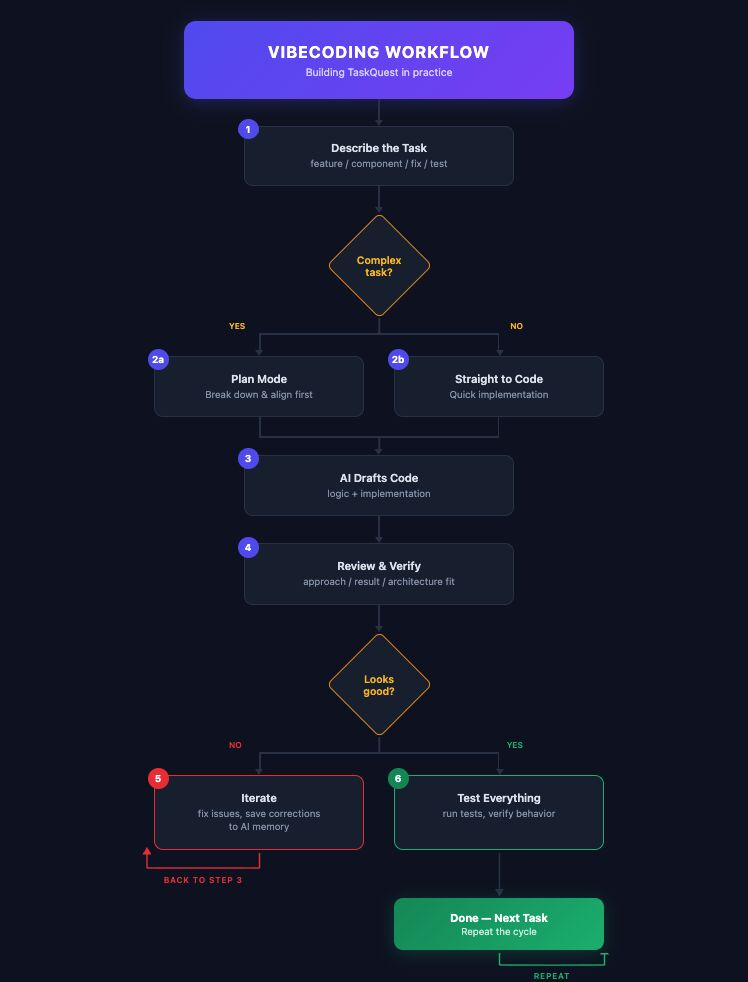
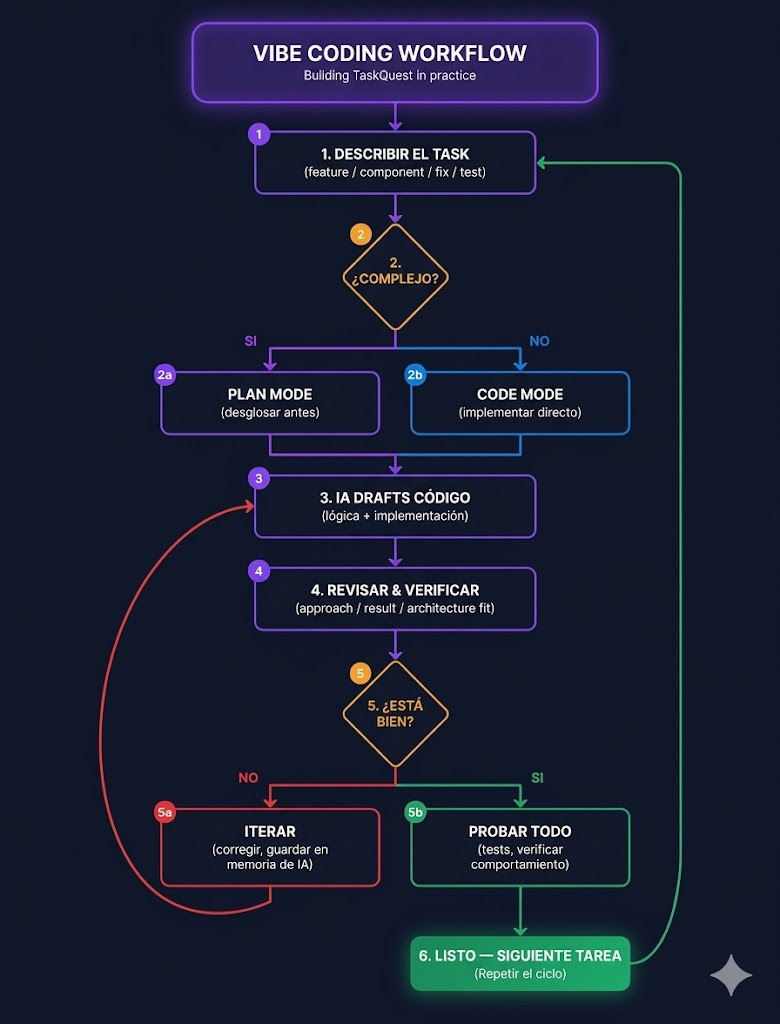
Clase 02 Simple Idea & Research to Prompt

diff --git a/02_clase/README.md b/02_clase/README.md
@@ -1,0 +1,129 @@
+# De la Idea al MVP con IA
+
+_Resumen del material on demand (contenido de la plataforma)_
+
+## **Idea Central**
+No empieces con la solución, empieza con el problema. La meta no es "tener un SaaS", sino validar que estás resolviendo un **dolor real** para **personas reales**. La IA puede acelerar todo este proceso, pero nunca reemplazar la validación con usuarios.
+
+---
+
+### 1. **Descubre el Problema Real** (No tu idea)
+
+Olvídate de las pantallas por un momento. Pregúntate:
+
+- **¿Qué problema resuelvo?** No "un SaaS de reservas", sino "administradores de coworking que pierden ingresos porque gestionan reservas con Excel y WhatsApp, generando dobles reservas y facturación caótica".
+
+- **¿Para quién?** No "los coworkings", sino "Laura, la administradora de un espacio con 35 miembros, que cada fin de semana cruza mensajes de WhatsApp para saber quién pagó su membresía y quién no".
+
+- **¿Cómo lo resuelven hoy?** Usualmente con Excel para membresías, WhatsApp para reservas, Google Calendar para salas, y hojas de cálculo para facturación (esto genera errores, conflictos y horas no facturables).
+
+**Herramienta IA útil:**
+> *Prompt:* "Genera una lista de dolores (operativos, financieros y emocionales) que enfrentan los administradores de espacios de coworking al gestionar reservas, membresías y facturación con herramientas manuales."
+
+---
+
+### 2. **Organiza la Información y Genera Ideas Claras**
+
+No es "hacer un calendario". Es definir oportunidades concretas basadas en lo que descubriste.
+
+1. **Extrae patrones:** ¿Qué se repite en las entrevistas?
+   - "Cada fin de mes pierdo 2 días enteros facturando"
+   - "Los miembros se quejan porque no saben si la sala está libre"
+   - "A veces dos personas reservan el mismo espacio y tengo que mediar"
+
+2. **Dibuja el camino del usuario (User Journey):** Sigue los pasos de "Laura" para gestionar una reserva hoy. Identifica en qué paso sufre más.
+   - Miembro envía WhatsApp → Laura revisa Excel → Laura confirma disponibilidad → Laura anota en hoja → Laura cobra manualmente → ERROR: doble reserva
+
+3. **Formula oportunidades:** En formato "¿Cómo podríamos...?"
+   - ¿Cómo podríamos centralizar la disponibilidad de todos los espacios en un solo lugar visible para todos?
+   - ¿Cómo podríamos automatizar la facturación recurrente para que Laura no pierda 2 días al mes?
+   - ¿Cómo podríamos dar autonomía al miembro para que reserve sin depender de Laura?
+
+**Herramienta IA útil:**
+> *Prompt:* "Dado el siguiente patrón '[Los administradores de coworking pierden 10-15 horas semanales gestionando reservas y facturación manualmente, generando dobles reservas y retrasos en cobros]', genera 3 oportunidades de solución en formato '¿Cómo podríamos...?' para un SaaS multitenant."
+
+---
+
+### 3. **Define tu MVP: El Mínimo para Aprender**
+
+El MVP no es la versión más barata de tu producto soñado. Es el **experimento más pequeño** para probar tu hipótesis principal.
+
+**Hipótesis:**
+> "Si los miembros de un coworking pueden ver la disponibilidad en tiempo real y reservar espacios por sí mismos a través de un portal web, y el sistema genera automáticamente las facturas de membresías, los administradores reducirán su carga administrativa en un 70% y eliminarán las dobles reservas."
+
+**MVP (Mínimo):** Un portal web con dos vistas:
+
+| Vista | Funcionalidades mínimas |
+|-------|------------------------|
+| **Vista Miembro** | Ver calendario con espacios disponibles, reservar un espacio en 2 clics, ver mis reservas activas |
+| **Vista Admin** | Ver todas las reservas del día, gestionar espacios (agregar/editar), ver quién debe pagar |
+
+**NO necesita en MVP:**
+- App móvil nativa (funciona con web responsive)
+- Integración con cerraduras inteligentes
+- Múltiples sedes para un mismo coworking
+- Reportes avanzados y analytics complejos
+- Marketplace de eventos o servicios extra
+- Chat interno entre miembros
+
+**Herramienta IA útil:**
+> *Prompt:* "Prioriza estas funcionalidades para un MVP de SaaS de administración de coworking, usando el método MoSCoW (Must, Should, Could, Won't): Gestión de espacios, Calendario de reservas, Portal de miembros, Facturación automática, Login de admin, Reportes básicos, Pasarela de pagos, App móvil, Múltiples sedes."
+
+---
+
+### 4. **Construye en Etapas (con Vibe Coding)**
+
+No intentes hacer todo al mismo tiempo. Avanza por capas, validando en cada una antes de continuar:
+
+| Etapa | Objetivo | Qué construyes | Cómo validas |
+|-------|----------|----------------|--------------|
+| **Etapa 1 - Esqueleto** | Validar que el flujo se entiende | Pantallas con datos falsos (mock). Admin ve calendario, miembro puede hacer clic en "reservar". | Mostrar a 3 administradores. ¿Entienden cómo se usa? ¿El flujo tiene sentido? |
+| **Etapa 2 - Datos Reales** | Validar que el producto funciona | Conectar a base de datos (Supabase). Las reservas persisten. Los espacios se guardan. | Probar con 1 coworking real. Que suban sus espacios y hagan 5 reservas de prueba. |
+| **Etapa 3 - Usuarios Reales** | Validar que el producto es usado | Agregar autenticación (login). Cada coworking tiene su URL única (multitenant). | Que 5 miembros del coworking reserven sin ayuda del admin. Medir % de reservas exitosas. |
+| **Etapa 4 - Facturación** | Validar el modelo de negocio | Integrar pasarela de pagos (Stripe/MercadoPago). Facturación automática de membresías. | Que el primer ciclo de cobros se complete. Medir % de pagos automatizados. |
+
+**Herramienta IA útil:**
+> *Prompt:* "Soy un creador construyendo un SaaS de coworking. Dame un plan paso a paso para implementar autenticación multitenant con Supabase, donde cada coworking tenga su propia URL y sus usuarios no puedan ver datos de otros coworkings."
+
+---
+
+## **Conclusión: Puntos Clave para el Creador**
+
+1. **Ámate del problema, no de tu idea.** Tu primera idea probablemente esté equivocada. La investigación te acerca a la versión correcta. En este caso, el problema no es "falta de app", es "Laura pierde 2 días facturando".
+
+2. **La IA es tu asistente de investigación e ideación,** no tu fuente de verdad. Úsala para ampliar perspectivas, generar preguntas y organizar información. La validación final es con personas reales: administradores y miembros de coworkings.
+
+3. **Un MVP es un experimento, no un producto completo.** Su éxito se mide por el **aprendizaje validado**, no por la cantidad de features. Define 1 o 2 hipótesis clave y construye sólo lo necesario para probarlas.
+   - Hipótesis 1: ¿Los miembros reservan sin ayuda si tienen visibilidad?
+   - Hipótesis 2: ¿Los administradores pagan por automatizar facturación?
+
+4. **Construye en capas.** 
+   - Capa 1: Haz que *se vea* y *se entienda* (flujo con datos mock)
+   - Capa 2: Haz que *funcione de verdad* (datos persistentes)
+   - Capa 3: Hazlo *personal y escalable* (login + multitenant)
+   - Capa 4: Hazlo *rentable* (facturación automática)
+
+5. **El momento de la verdad es la URL pública.** Cuando tu MVP esté en línea y un coworking real (aunque sea uno solo) lo use para gestionar sus reservas diarias, habrás pasado de la teoría a la creación de un producto real. Allí comienza el aprendizaje verdadero.
+
+---
+
+## *Challenge recomendado*
+
+**Tu meta al final de esta unidad:**
+
+Poder mostrar un link (URL pública) donde:
+- Un administrador de coworking pueda entrar, ver un calendario y gestionar sus espacios
+- Un miembro pueda reservar un espacio sin ayuda
+- Los datos persistan (si reservas hoy, mañana sigue ahí)
+
+Ese es el primer y más importante paso en el camino de cualquier producto digital. No necesitas facturación automática en la primera entrega. Necesitas **un fragmento verificable del problema resuelto**.
+
+---
+
+## *Bonus: Preguntas para Reflexionar con los Alumnos*
+
+| Pregunta | Propósito |
+|----------|-----------|
+| ¿Qué pasaría si en lugar de construir un SaaS, primero ayudas a Laura a facturar en 1 hora con una planilla mejorada? | Cuestionar si el producto es la solución o hay un camino más simple |
+| ¿Cuál es la hipótesis más riesgosa de tu proyecto? ¿La técnica o la de adopción? | Identificar qué validar primero |
+| Si solo pudieras mostrar UNA pantalla funcional en tu MVP, ¿cuál sería y por qué? | Forzar priorización extrema |

diff --git a/02_clase/.prompts/vibe.prompt.md b/02_clase/.prompts/vibe.prompt.md
@@ -1,0 +1,71 @@
+### CONTEXTO
+
+- **CONTEXTO DEL PROYECTO: SaaS COWORKING MULTITENANT**
+- **Objetivo:** Aplicación profesional de gestión de coworking.
+- **Arquitectura:** Multitenant real (aislamiento por `tenant_id` y - subdominios dinámicos).
+- **Tech Stack:** Vue.js, Supabase (con RLS), PWA, Tailwind CSS, Framer Motion.
+- **Vibe:** Minimalismo de Squarespace + Eficiencia técnica de [Linear.app.](https://linear.app/) & [ICOMAT](https://www.icomat.co.uk/)
+- **Reglas Críticas:** 1. Imports relativos (`../`). 2. Datos en `mockData.ts`. 3. PWA instalable. 4. Toasts para feedback.
+- **Entidades:** Tenants, Profiles, Spaces, Reservations, Memberships, Payments, Announcements.
+
+---
+
+### PASO 1: Diseño UI/UX (Para STITCH)
+*Este prompt se enfoca en la "piel" y la experiencia, asegurando que el diseño contemple la lógica multitenant.*
+
+> **PROMPT 1: DESIGN SYSTEM & LAYOUTS**
+> [PEGAR BLOQUE DE CONTEXTO AQUÍ]
+>
+> Actúa como Product Designer Senior. Basado en el contexto anterior, diseña la interfaz completa en Stitch:
+> 1. **Branding Dinámico:** Diseña cómo el logo y colores cambian según el `tenant_id` en el dashboard.
+> 2. **Admin Dashboard:** Layout de gestión de espacios (grid), calendario global de reservas y sección de facturación.
+> 3. **Member Dashboard (Mobile First):** Interfaz enfocada en la reserva rápida mediante slots de tiempo y visualización de membresía activa.
+> 4. **Componentes:** Diseña los Toasts de feedback, Skeletons de carga y el Toggle de Dark/Light mode (Slate-900 / Slate-50).
+> **Entregable:** Prototipo visual de alta fidelidad que refleje la estética Linear/Icomat.
+
+---
+
+### PASO 2: Desarrollo Frontend & Estructura (Para ANTIGRAVITY)
+*Este prompt toma el diseño y crea el cascarón funcional siguiendo las reglas técnicas.*
+
+> **PROMPT 2: FRONTEND ARCHITECTURE & PWA**
+> [PEGAR BLOQUE DE CONTEXTO AQUÍ]
+>
+> Actúa como Desarrollador Frontend Senior. Implementa la estructura del proyecto basada en el diseño de la etapa anterior:
+> 1. **Estructura de Carpetas:** Crea `/admin` y `/member` con navegación independiente (Sidebar vs Bottom Tab Bar).
+> 2. **Reglas Técnicas:** Configura el sistema de imports relativos y crea `src/data/mockData.ts` con los datos de los 2 tenants demo (Espacio Centro y WorkHub Norte).
+> 3. **PWA:** Genera el `manifest.json` y el Service Worker básico para que la app sea instalable.
+> 4. **UI:** Implementa los componentes de calendario, formularios de CRUD y el sistema de Toasts reactivos con Framer Motion.
+> **Entregable:** Repositorio base con layouts funcionales y navegación lista.
+
+---
+
+### PASO 3: Base de Datos y Seguridad (Para SUPABASE)
+*Aquí es donde creamos el motor y los muros de seguridad de los datos.*
+
+> **PROMPT 3: BACKEND, RLS & DATA MODEL**
+> [PEGAR BLOQUE DE CONTEXTO AQUÍ]
+>
+> Actúa como Arquitecto de Datos. Configura el backend en Supabase mediante MCP:
+> 1. **Esquema SQL:** Crea las 8 tablas definidas en el contexto, asegurando relaciones correctas (Foreign Keys).
+> 2. **Multi-tenancy RLS:** Redacta las políticas de Row Level Security para que TODO filtro dependa del `auth.jwt() -> 'tenant_id'`. Un usuario de un coworking jamás debe ver datos de otro.
+> 3. **Auth Hooks:** Crea un trigger para que, al registrar un usuario, se cree automáticamente su entrada en `profiles`.
+> 4. **Seed Data:** Inserta los datos de prueba para los 2 tenants demo (Admin + 2 Miembros cada uno) para testing inmediato.
+> **Entregable:** Script SQL completo y configuración de tablas en Supabase.
+
+---
+
+### PASO 4: Lógica de Negocio e Integración (Para FINAL DEVS)
+*El paso final para que la app "piense" y se conecte a los subdominios.*
+
+> **PROMPT 4: BUSINESS LOGIC & TENANT ROUTING**
+> [PEGAR BLOQUE DE CONTEXTO AQUÍ]
+>
+> Actúa como Lead Fullstack. Finaliza la integración del sistema:
+> 1. **Detección de Subdominio:** Implementa la lógica para que `tenant-slug.tucowork.com` cargue la configuración de branding de ese tenant desde la tabla `tenants`.
+> 2. **Lógica de Reservas:** Programa las validaciones: 
+>    - Impedir reservas que no respeten la anticipación mínima (ej: 24h).
+>    - Evitar solapamientos de horario en el mismo `space_id`.
+> 3. **Dashboard de Miembro:** Conecta la vista de "Mi Membresía" y el historial de pagos con los datos reales de Supabase.
+> 4. **Funciones Extra:** Implementa la exportación a CSV para el admin y la generación dinámica de códigos QR para check-in.
+> **Entregable:** Aplicación SaaS 100% funcional y conectada.

diff --git a/02_clase/vibe_coding_aplicado.md b/02_clase/vibe_coding_aplicado.md
@@ -1,0 +1,112 @@
+# Vibe Coding Workflow: Construyendo tu SaaS de Coworking
+
+## El Ciclo Visual
+![Vibe Coding Looper](../.img/vibe-coding-loop.png)
+---
+
+## Explicación Simple Paso a Paso
+
+### 1. Describir la Tarea
+**Qué haces:** Le decís a la IA qué querés construir.
+
+**Ejemplo para tu proyecto:**
+> "Necesito que los miembros de un coworking puedan ver un calendario con los espacios disponibles y reservar uno en 2 clics. Los datos deben persistir en una base de datos."
+
+**Consejo:** Sé específico. Mencioná qué pantalla, qué usuario, qué resultado esperás.
+
+---
+
+### 2. ¿Es Complejo?
+**Qué haces:** Decidís si la tarea necesita planificación o podés ir directo al código.
+
+| Si es COMPLEJO | Si es SIMPLE |
+|----------------|--------------|
+| - Autenticación multitenant | - Agregar un campo al formulario |
+| - Integración con pasarela de pagos | - Cambiar color de un botón |
+| - Migración de base de datos | - Mostrar texto dinámico |
+| - Flujo con múltiples roles (admin/miembro) | - Arreglar un error de visualización |
+
+**Plan Mode:** La IA te ayuda a desglosar la tarea en pasos más pequeños antes de escribir código.
+
+**Code Mode:** La IA escribe el código directamente.
+
+---
+
+### 3. IA Drafts Código
+**Qué haces:** La IA genera el código (lógica + implementación).
+
+**Qué pasa:** Aparecen pantallas, componentes, funciones. Es el momento mágico del "vibe".
+
+**Ejemplo:** Le pedís "crear el dashboard del admin" y la IA te genera una pantalla con tabla de miembros, ingresos del mes y reservas activas.
+
+---
+
+### 4. Revisar
+**Qué haces:** Mirás lo que generó la IA. Preguntate:
+
+- ¿El enfoque es correcto?
+- ¿Esto resuelve lo que pedí?
+- ¿Encaja con lo que ya tengo construido?
+
+**Consejo:** No aceptes todo ciegamente. El "vibe" no es dejar que la IA decida todo. Sos vos quien dirige.
+
+---
+
+### 5. ¿Está Bien? — Decisión
+**Qué haces:** Evaluás el resultado.
+
+| Si NO está bien | Si SÍ está bien |
+|-----------------|-----------------|
+| Le pedís a la IA que corrija | Pasás a probar |
+| Guardás la corrección en "memoria" para que aprenda | Ejecutás tests |
+| Volvés al paso 3 | Verificás comportamiento real |
+
+**Ejemplo de iteración:**
+> "El calendario se ve bien, pero no está mostrando los horarios ocupados. Corregilo para que muestre en rojo los horarios ya reservados."
+
+---
+
+### 6. Listo — Siguiente Tarea
+**Qué haces:** Confirmás que la funcionalidad funciona y pasás a la siguiente tarea.
+
+**El ciclo se repite:** Cada tarea pequeña sigue el mismo flujo. Así construís tu SaaS pieza por pieza.
+
+---
+
+## Aplicado a tu SaaS de Coworking
+
+Aquí hay un ejemplo concreto de cómo aplicarías este ciclo:
+
+| Paso | Qué harías |
+|------|------------|
+| **1. Describir** | "Crear la página de login para que cada coworking tenga su propia URL: `espacio-mia.coworkhub.com/login`" |
+| **2. ¿Complejo?** | SÍ (multitenant + autenticación) → **Plan Mode** |
+| **3. IA Drafts** | La IA genera: código de Supabase, rutas dinámicas, componentes de login |
+| **4. Revisar** | Verificás que los usuarios de un coworking no puedan loguearse en otro |
+| **5. ¿Está bien?** | No: un usuario logueado ve datos de otro coworking → **Iterás**: "Corregí el aislamiento de datos" |
+| **6. Listo** | Funciona. Pasás a la siguiente tarea: "Crear el calendario de reservas" |
+
+---
+
+## Reglas de Oro para tus Alumnos
+
+| Regla | Por qué |
+|-------|---------|
+| **Una tarea a la vez** | Si pedís 5 cosas juntas, es difícil revisar y corregir |
+| **Guardá correcciones en memoria** | Cada vez que la IA se equivoca, decile "recordá esto para la próxima" |
+| **Probá después de cada tarea** | No acumules errores. Validá que funcione antes de seguir |
+| **El Plan Mode no es opcional para tareas complejas** | Saltarse la planificación = código desorganizado que después no podés mantener |
+| **El código es tuyo, la IA solo escribe** | Revisá, entendé, hacé preguntas. El "vibe" es colaboración, no delegación |
+
+---
+
+## *Challenge para la Clase*
+
+**Consigna:** Aplicá el ciclo de Vibe Coding a una tarea concreta de tu SaaS de coworking.
+
+1. **Describí** una tarea (ej: "Que el admin pueda agregar un nuevo espacio de coworking con nombre, capacidad y foto")
+2. **Decidí** si es compleja o simple
+3. **Ejecutá** con IA (Bolt.new, Lovable, etc.)
+4. **Revisá** el resultado
+5. **Iterá** al menos una vez
+6. **Mostrá** el resultado final funcionando

diff --git a/02_clase/.prompts/research.prompt.md b/02_clase/.prompts/research.prompt.md
@@ -1,0 +1,78 @@
+Mi idea de proyecto es: [INSERTAR AQUÍ LA DESCRIPCIÓN DE TU IDEA]
+
+<details>
+  <summary>Ejemplo para proyecto de clase</summary>
+  Mi idea de proyecto es: Un SaaS Multitenant para Coworking. Orientado a ser un Software de Administración de cada espacio de coworking con múltiples usuarios con reservas y gestión de membresías.
+</details>
+Debes generar un documento organizado en las siguientes 3 PARTES, con cada subsección claramente marcada:
+
+---
+
+## PARTE 1: DEFINICIÓN Y VALIDACIÓN DEL PROBLEMA
+
+### 1.1. Planteamiento Inicial del Problema
+- Describí el problema en una frase clara
+- Definí quién lo sufre (usuario)
+- Explicá por qué es relevante
+- Indicá con qué frecuencia ocurre
+
+### 1.2. Análisis en Profundidad del Contexto
+- Define el contexto
+- Identifica al usuario objetivo (sé específico, evita términos genéricos)
+- Enumera los pains (mínimo 4)
+- Establece la frecuencia
+- Cuantifica el impacto (con datos o estimaciones)
+
+---
+
+## PARTE 2: INVESTIGACIÓN ÁGIL PARA VALIDAR LA HIPÓTESIS
+
+### 2.1. Preguntas para Entender Mejor el Problema
+- 3 preguntas abiertas
+- 2 preguntas cerradas
+
+### 2.2. Encuesta Corta (Máx. 5 preguntas)
+Diseñá una encuesta con formato de opciones múltiples y preguntas abiertas
+
+### 2.3. Respuestas Imaginadas
+Generá 2-3 respuestas de usuarios ficticios pero realistas que completen la encuesta
+
+### 2.4. Señales de Validación
+Identificá al menos 3 señales que validen el problema (ej: problema frecuente, frustración explícita, interés en solución)
+
+### 2.5. Conclusiones sobre el Producto
+Escribí 2-3 conclusiones clave que surgen de esta validación
+
+---
+
+## PARTE 3: DOCUMENTO V0 DEL PRODUCTO
+
+### 3.1. Diagrama del User Flow Esencial
+Dibujá en texto el flujo principal del usuario (formato de árbol o pasos numerados)
+
+### 3.2. Definición Clara del MVP
+- Nombre tentativo del producto
+- Tabla con funcionalidades mínimas (Módulo, Funcionalidad, Descripción breve)
+- Funcionalidades excluidas (fuera del MVP)
+
+### 3.3. Criterios de Éxito (KPIs)
+Tabla con: KPI, Meta (porcentaje o número), Métrica de medición (mínimo 4 KPIs)
+
+### 3.4. Prototipo en Bolt.new
+- Objetivo del prototipo
+- Qué se construirá en Bolt.new (3-4 elementos concretos)
+- Cómo se usará para pruebas con usuarios (flujo de prueba con tareas específicas)
+
+---
+
+## CONCLUSIÓN: PROBLEMA vs IDEA vs OPORTUNIDAD
+Tabla de 3 filas diferenciando claramente los tres conceptos aplicados al proyecto
+
+---
+
+REGLAS DE FORMATO:
+- Usá títulos en negrita con ## para secciones principales
+- Usá viñetas y tablas donde corresponda
+- Las respuestas imaginadas deben incluir nombre, rol y respuestas concretas
+- Sé específico, evita generalidades
+- Todo debe estar orientado al proyecto que describo al inicio
